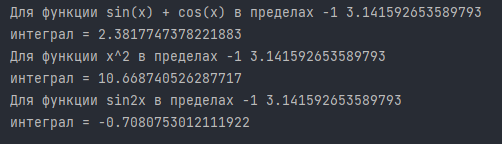
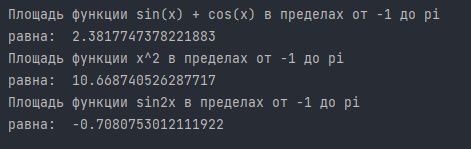
integral for 3 functions using match-case (python 3.10)

diff --git a/integral_calc.py b/integral_calc.py
@@ -48,5 +48,5 @@ if __name__ == '__main__':
             f = 'x^2'
         else:
             f = 'sin2x'
-        print("Для функции", f, "в пределах", left, right)
-        print("интеграл =", integral(left, right, flag))
+        print(f"Площадь функции {f} в пределах от {left} до pi")
+        print("равна: ", integral(left, right, flag))
